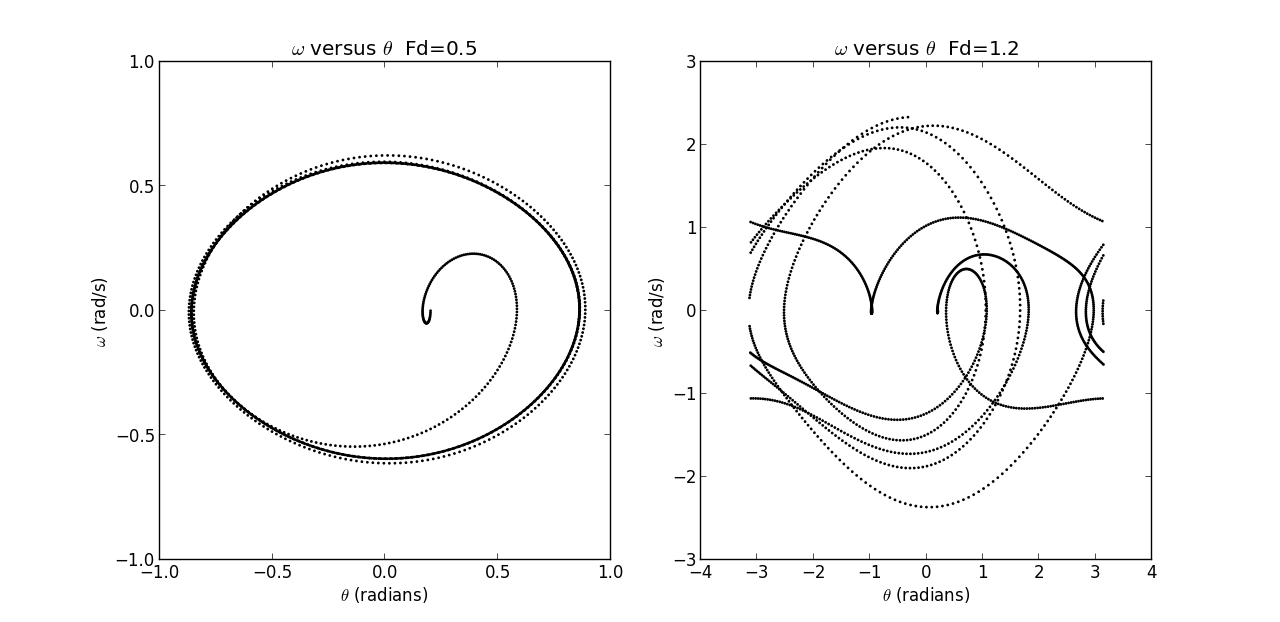
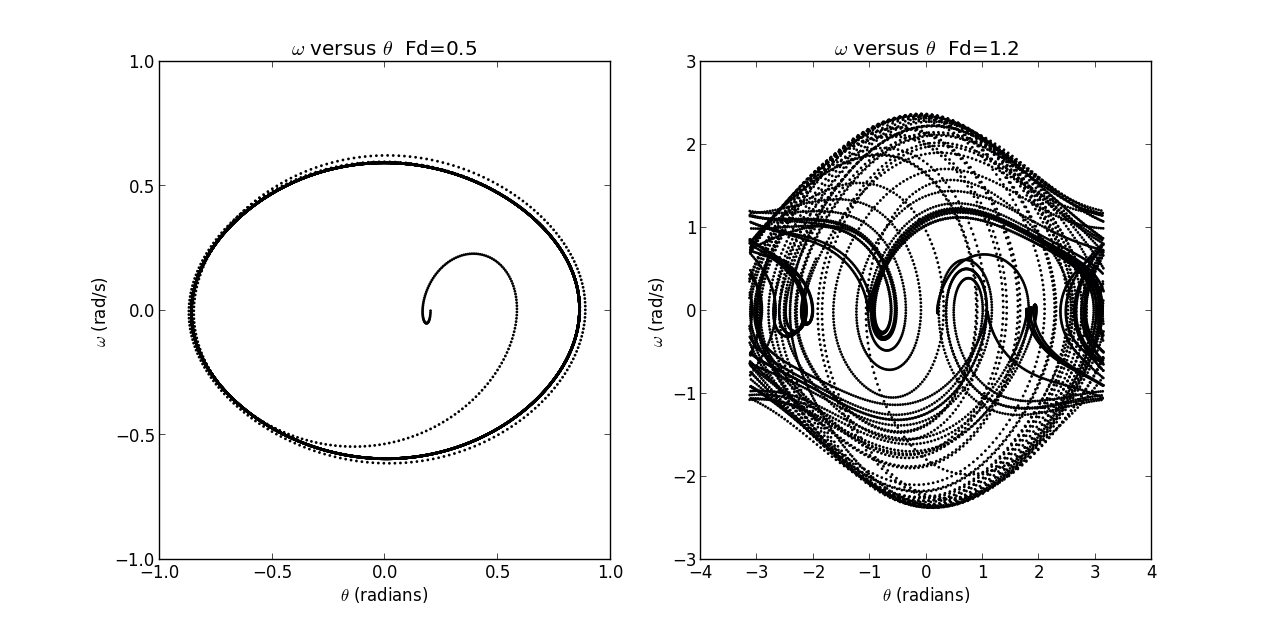
updated Figure 3.8

Changed region(s): [[0.5625, 0.1833, 0.875, 0.8248], [0.3438, 0.7026, 0.375, 0.7331]]

diff --git a/3/figure_3_8/phase_space.py b/3/figure_3_8/phase_space.py
@@ -12,7 +12,7 @@ g = 9.8               #gravity acceleration (m/s2)
 length = 9.8          #length of the rod (m)
 k = g / length        #g/length 
 dt = 0.04             #time step (s)
-t_end = 60            #end time (s)
+t_end = 500           #end time (s)
 situations = []       #this list store [time, angle]
 
 #caculate the physical pendulum
